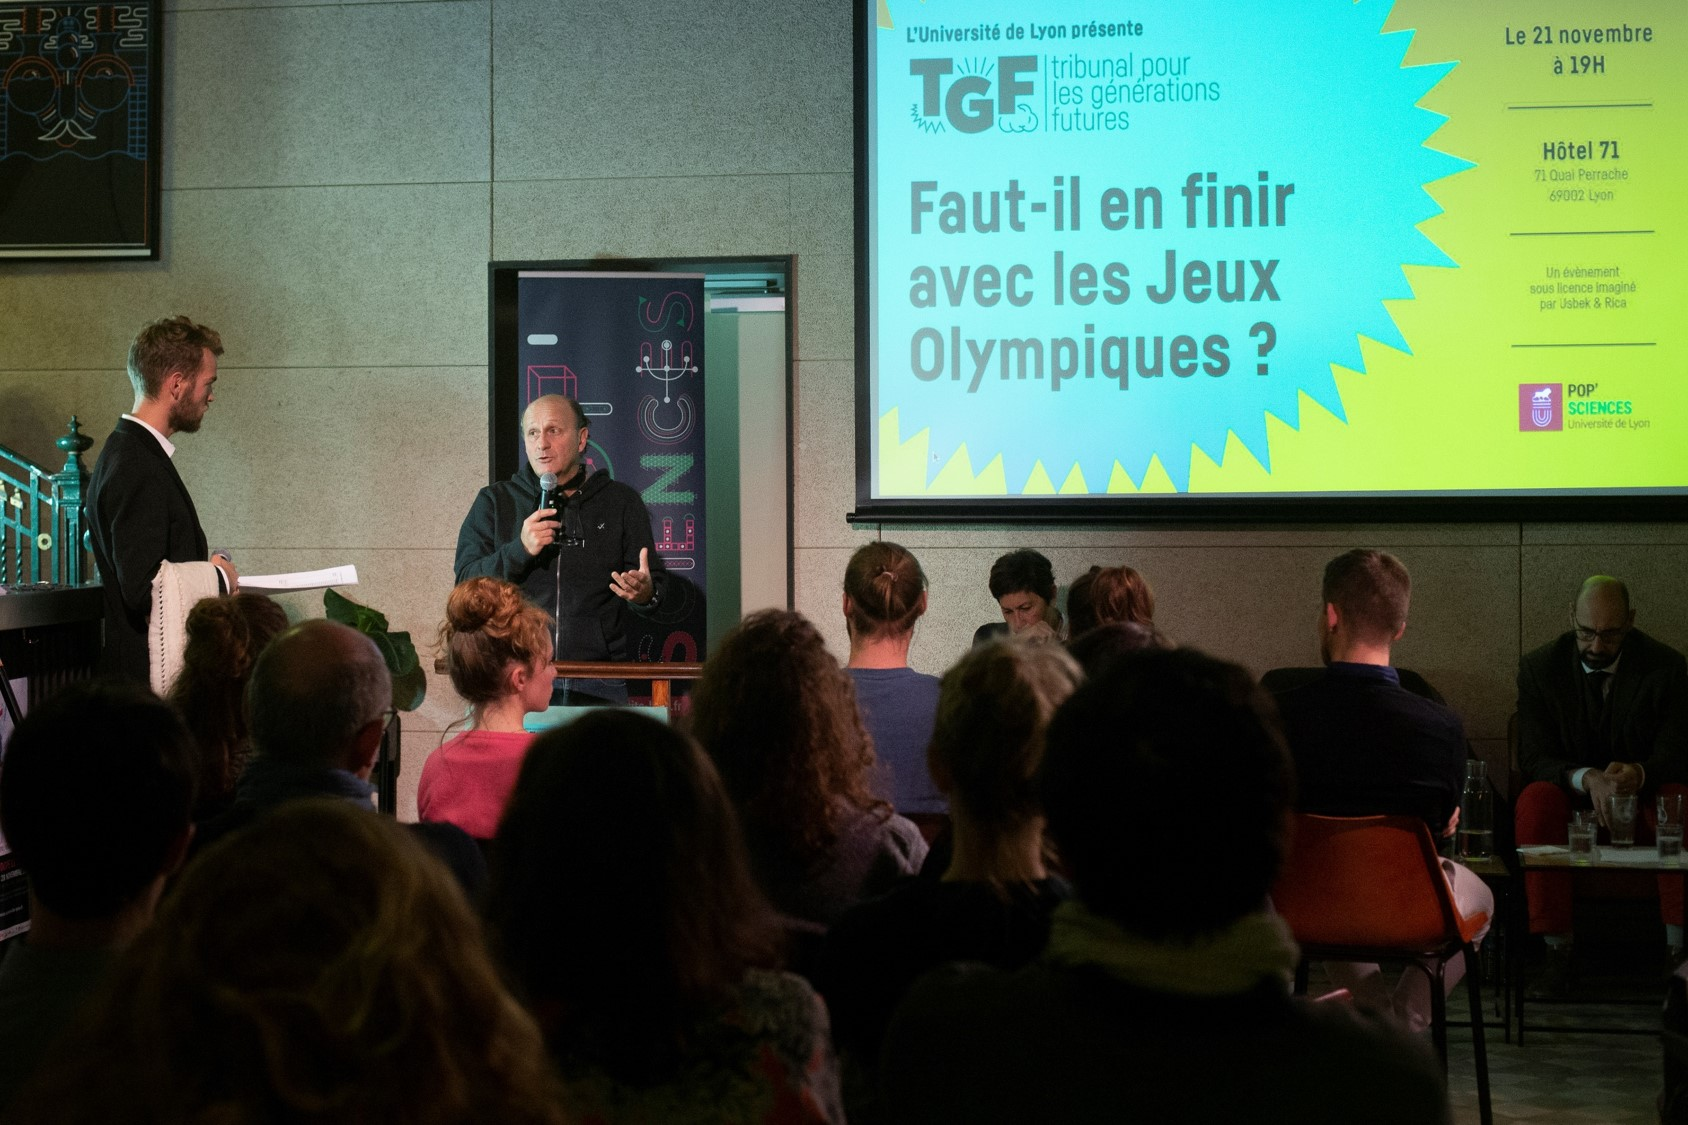
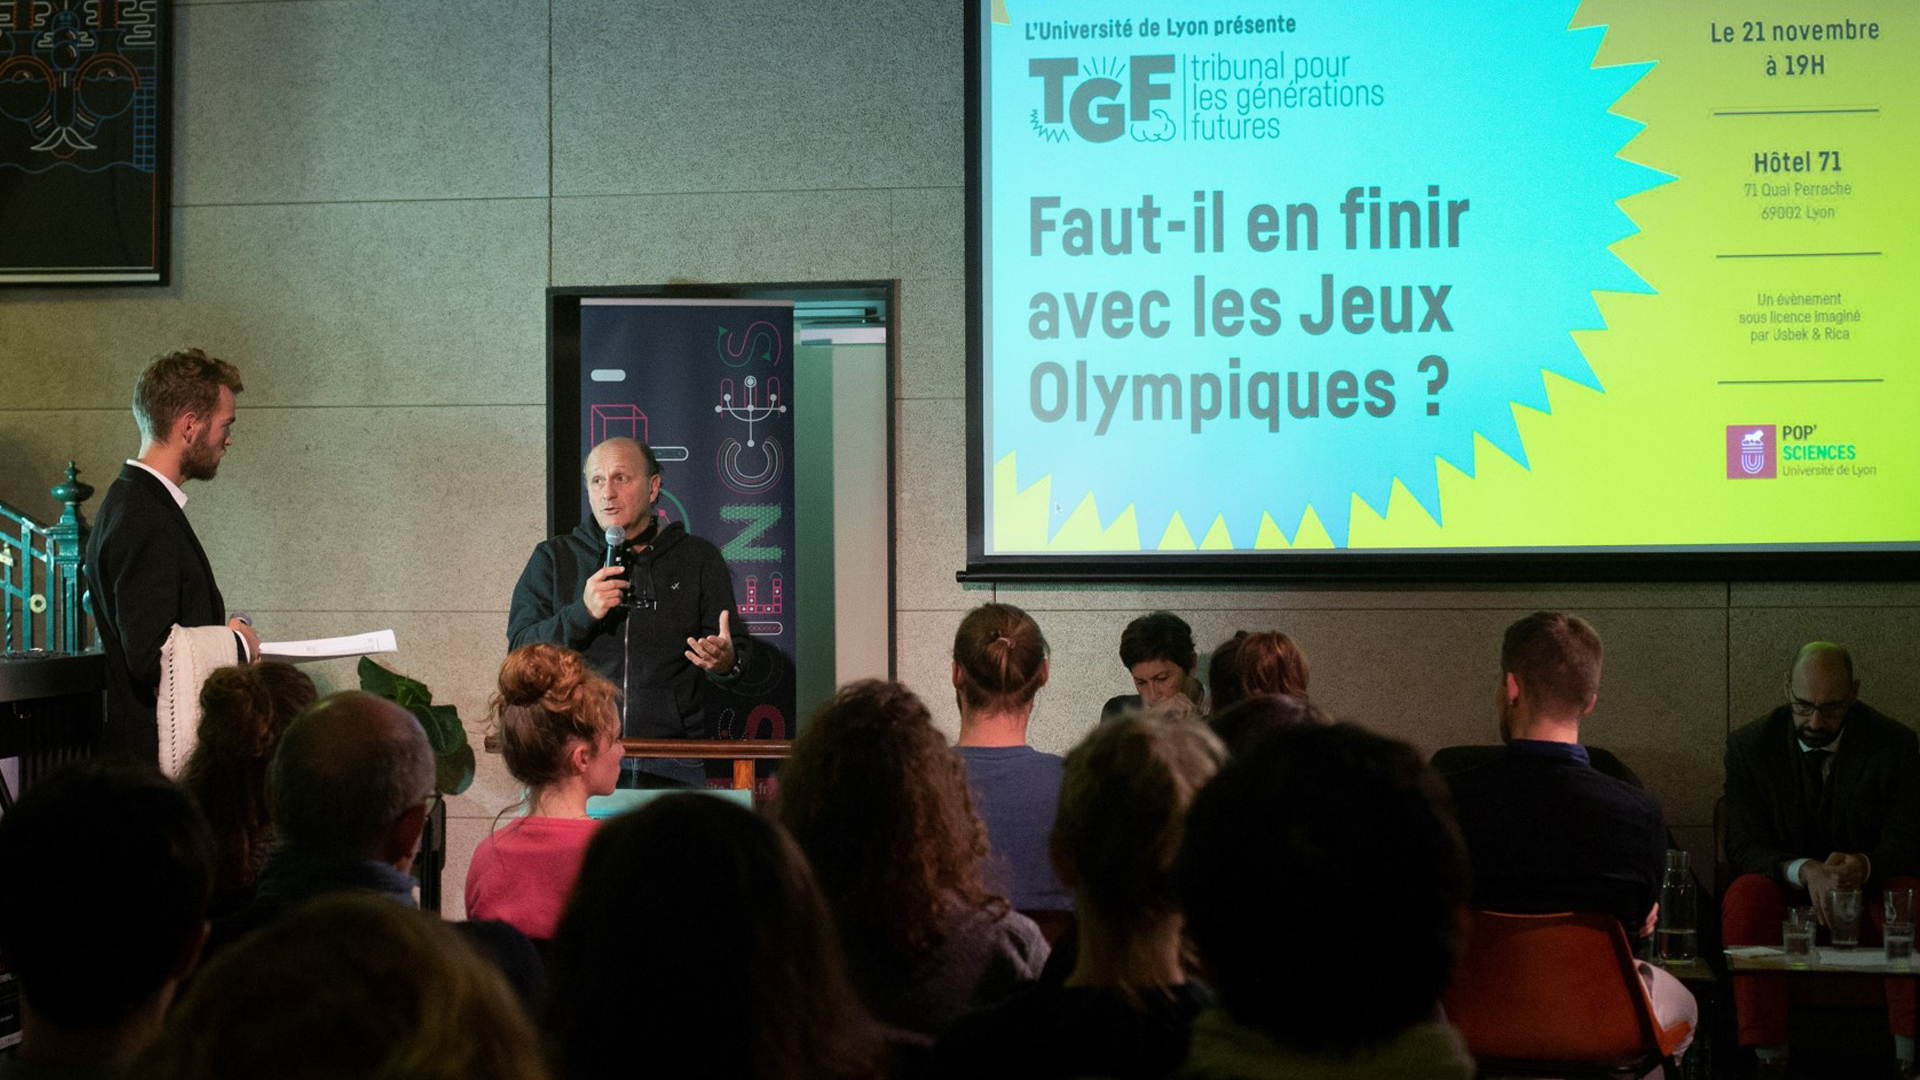
mise en conformité des images et post-traitement

diff --git a/portfolio.html b/portfolio.html
@@ -106,7 +106,7 @@
                 <h3>Formations en ligne POP'Sciences</h3>
                 <span>Série vidéo</span>
               </div>
-              <img class="img-fluid portfol" src="assets/img/popvid6.png">
+              <img class="img-fluid portfol" src="assets/img/popvid6.jpg">
             </a>
           </div>
           <div class="item architecture ecriture col-sm-6 col-md-4 col-lg-4 mb-4">
@@ -124,7 +124,7 @@
                 <h3>Parole aux chercheurs</h3>
                 <span>Video</span>
               </div>
-              <img class="img-fluid portfol" src="assets/img/liotard.png">
+              <img class="img-fluid portfol" src="assets/img/liotard1.jpg">
             </a>
           </div>
           <div class="item ecriture design image col-sm-6 col-md-4 col-lg-4 mb-4">
@@ -142,7 +142,7 @@
                 <h3>Tribunal des Générations Futures</h3>
                 <span>Médiation</span>
               </div>
-              <img class="img-fluid portfol" src="assets/img/tgf1.png">
+              <img class="img-fluid portfol" src="assets/img/tgf1.jpg">
             </a>
           </div>
           <div class="item image ecriture col-sm-6 col-md-4 col-lg-4 mb-4">
@@ -151,7 +151,7 @@
                 <h3>Au fil des humanités</h3>
                 <span>Récits de recherche</span>
               </div>
-              <img class="img-fluid portfol" src="assets/img/humas.png">
+              <img class="img-fluid portfol" src="assets/img/humas.jpg">
             </a>
           </div>
           <div class="item image ecriture col-sm-6 col-md-4 col-lg-4 mb-4">
@@ -160,7 +160,7 @@
                 <h3>Les navettes autonomes</h3>
                 <span>Vidéo</span>
               </div>
-              <img class="img-fluid portfol" src="assets/img/navette.png">
+              <img class="img-fluid portfol" src="assets/img/navette.jpg">
             </a>
           </div>
           <div class="item ecriture image col-sm-6 col-md-4 col-lg-4 mb-4">
@@ -169,7 +169,7 @@
                 <h3>La bio-impression 3D : reportage.</h3>
                 <span>Photographie</span>
               </div>
-              <img class="img-fluid portfol" src="assets/img/mag12.png">
+              <img class="img-fluid portfol" src="assets/img/roman1.jpg">
             </a>
           </div>
         </div>

diff --git a/parole.html b/parole.html
@@ -144,6 +144,7 @@
             <p>
               Visée.A est associée dès le départ à la réflexion, afin de partager, bien avant la réalisation de l'entretien, l’intention poursuivie par la vidéo et choisir un lieu de tournage qui serve le propos. Visée.A installe deux enregistrements vidéo et un micro, et deux prises sont alors réalisées. Le montage alterne les plans pour une vidéo dynamique, fait défiler les sous-titres pour les publics malentendants et augmente la vidéo d'inserts illustrant le propos du chercheur. L’ensemble des étapes et des éléments s’organisent ainsi au profit d’un contenu clair, accessible et dynamique. 
             </p>
+            <img src="assets/img/liotard1.jpg" alt="Image" class="img-fluid">
           </div>
         </div>
       </div>

diff --git a/popformation.html b/popformation.html
@@ -72,7 +72,7 @@
         <div class="container">
           <div class="row align-items-stretch">
             <div class="col-md-8" data-aos="fade-up">
-              <img src="assets/img/popvid7.png" alt="Image" class="img-fluid">
+              <img src="assets/img/popvid7.jpg" alt="Image" class="img-fluid">
             </div>
             <div class="col-md-3 ml-auto" data-aos="fade-up" data-aos-delay="100">
               <div class="sticky-content">

diff --git a/aventure.html b/aventure.html
@@ -73,7 +73,7 @@
         <div class="container">
           <div class="row align-items-stretch">
             <div class="col-md-8" data-aos="fade-up">
-              <img src="assets/img/fil.png" alt="Image" class="img-fluid">
+              <img src="assets/img/fil.jpg" alt="Image" class="img-fluid">
             </div>
             <div class="col-md-3 ml-auto" data-aos="fade-up" data-aos-delay="100">
               <div class="sticky-content">

diff --git a/assets/css/style.css b/assets/css/style.css
@@ -132,7 +132,7 @@ h1, h2, h3, h4, h5, h6, .font-heading {
   text-align: center;
   z-index: 3;
   transform: translateY(-50%);
-  color: #fff;
+  color: black
   opacity: 0;
   visibility: hidden;
   margin-top: 20px;
@@ -156,6 +156,7 @@ h1, h2, h3, h4, h5, h6, .font-heading {
 
 .item .item-wrap:hover img {
   transform: scale(1.05);
+  opacity: 0.2;
 }
 
 .item .item-wrap:hover:after {
